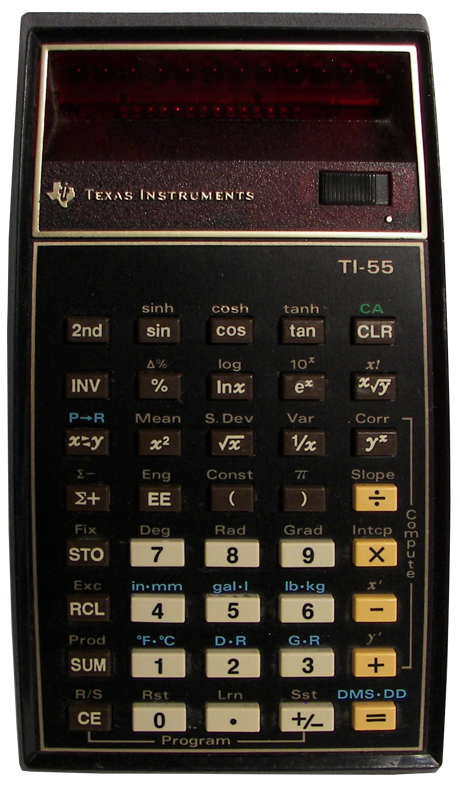
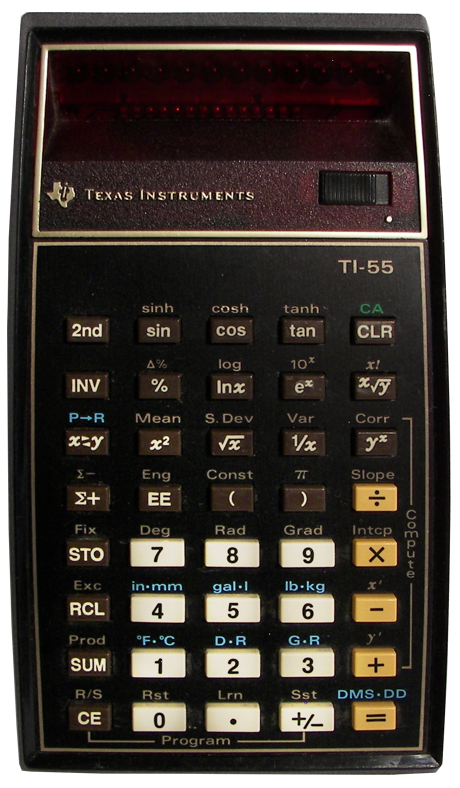
Brightened the TI-55 case image

diff --git a/devices/ti55/machine/README.md b/devices/ti55/machine/README.md
@@ -47,14 +47,14 @@ machines:
         "buttons": {
           "class": "Input",
           "map": [
-            ["2nd",  "inv",  "lnx",  "\\b",  "clr"],
-            ["lrn",  "xchg", "sq",   "sqrt", "rcp"],
-            ["sst",  "sto",  "rcl",  "sum",  "exp"],
-            ["bst",  "ee",   "(",    ")",    "/"],
-            ["gto",  "7",    "8",    "9",    "*"],
-            ["sbr",  "4",    "5",    "6",    "-"],
-            ["rst",  "1",    "2",    "3",    "+"],
-            ["r/s",  "0",    ".",    "+/-",  "=|\\r"]
+            ["2nd",  "sin",  "cos",  "tan",  "clr"],
+            ["inv",  "pct",  "lnx",  "epow", "root"],
+            ["xchg", "sq",   "sqrt", "rcp",  "ypow"],
+            ["sigma","ee",   "(",    ")",    "/"],
+            ["sto",  "7",    "8",    "9",    "*"],
+            ["rcl",  "4",    "5",    "6",    "-"],
+            ["sum",  "1",    "2",    "3",    "+"],
+            ["\\b",  "0",    ".",    "+/-",  "=|\\r"]
           ],
           "location": [45, 316, 372, 478, 0.34, 0.5, 459, 832, 322, 168, 75, 38],
           "bindings": {

diff --git a/_posts/2017-11-05-introducing-programmable-calculator-js.md b/_posts/2017-11-05-introducing-programmable-calculator-js.md
@@ -58,7 +58,7 @@ machines:
           "map": [
             ["2nd",  "inv",  "lnx",  "\\b",  "clr"],
             ["lrn",  "xchg", "sq",   "sqrt", "rcp"],
-            ["sst",  "sto",  "rcl",  "sum",  "exp"],
+            ["sst",  "sto",  "rcl",  "sum",  "ypow"],
             ["bst",  "ee",   "(",    ")",    "/"],
             ["gto",  "7",    "8",    "9",    "*"],
             ["sbr",  "4",    "5",    "6",    "-"],

diff --git a/_posts/2017-11-10-the-ti-57-programmable-calculator.md b/_posts/2017-11-10-the-ti-57-programmable-calculator.md
@@ -58,7 +58,7 @@ machines:
           "map": [
             ["2nd",  "inv",  "lnx",  "\\b",  "clr"],
             ["lrn",  "xchg", "sq",   "sqrt", "rcp"],
-            ["sst",  "sto",  "rcl",  "sum",  "exp"],
+            ["sst",  "sto",  "rcl",  "sum",  "ypow"],
             ["bst",  "ee",   "(",    ")",    "/"],
             ["gto",  "7",    "8",    "9",    "*"],
             ["sbr",  "4",    "5",    "6",    "-"],

diff --git a/devices/ti57/machine/README.md b/devices/ti57/machine/README.md
@@ -49,7 +49,7 @@ machines:
           "map": [
             ["2nd",  "inv",  "lnx",  "\\b",  "clr"],
             ["lrn",  "xchg", "sq",   "sqrt", "rcp"],
-            ["sst",  "sto",  "rcl",  "sum",  "exp"],
+            ["sst",  "sto",  "rcl",  "sum",  "ypow"],
             ["bst",  "ee",   "(",    ")",    "/"],
             ["gto",  "7",    "8",    "9",    "*"],
             ["sbr",  "4",    "5",    "6",    "-"],

diff --git a/devices/ti57/machine/rev0/README.md b/devices/ti57/machine/rev0/README.md
@@ -57,7 +57,7 @@ machines:
           "map": [
             ["2nd",  "inv",  "lnx",  "\\b",  "clr"],
             ["lrn",  "xchg", "sq",   "sqrt", "rcp"],
-            ["sst",  "sto",  "rcl",  "sum",  "exp"],
+            ["sst",  "sto",  "rcl",  "sum",  "ypow"],
             ["bst",  "ee",   "(",    ")",    "/"],
             ["gto",  "7",    "8",    "9",    "*"],
             ["sbr",  "4",    "5",    "6",    "-"],

diff --git a/devices/ti57/machine/rev1/README.md b/devices/ti57/machine/rev1/README.md
@@ -57,7 +57,7 @@ machines:
           "map": [
             ["2nd",  "inv",  "lnx",  "\\b",  "clr"],
             ["lrn",  "xchg", "sq",   "sqrt", "rcp"],
-            ["sst",  "sto",  "rcl",  "sum",  "exp"],
+            ["sst",  "sto",  "rcl",  "sum",  "ypow"],
             ["bst",  "ee",   "(",    ")",    "/"],
             ["gto",  "7",    "8",    "9",    "*"],
             ["sbr",  "4",    "5",    "6",    "-"],

diff --git a/devices/ti57/tips/README.md b/devices/ti57/tips/README.md
@@ -49,7 +49,7 @@ machines:
           "map": [
             ["2nd",  "inv",  "lnx",  "\\b",  "clr"],
             ["lrn",  "xchg", "sq",   "sqrt", "rcp"],
-            ["sst",  "sto",  "rcl",  "sum",  "exp"],
+            ["sst",  "sto",  "rcl",  "sum",  "ypow"],
             ["bst",  "ee",   "(",    ")",    "/"],
             ["gto",  "7",    "8",    "9",    "*"],
             ["sbr",  "4",    "5",    "6",    "-"],
